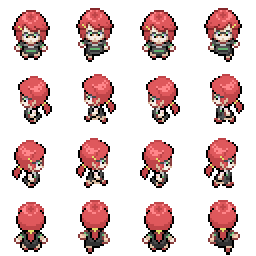
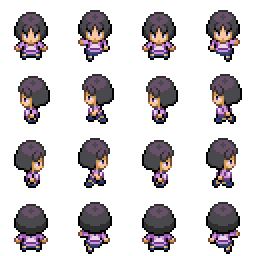
feat(teachers)

diff --git a/src/assetLoader.js b/src/assetLoader.js
@@ -113,6 +113,28 @@ export function loadAssets() {
       }
     });
 
+    k.loadSprite("alonso", "./assets/Alonso.png", {
+      sliceX: 4,
+      sliceY: 4,
+
+      anims: {
+        "alonso-down": 0,
+        "alonso-side": 4,
+        "alonso-up": 12,
+      }
+    });
+
+    k.loadSprite("thays", "./assets/Thays.png", {
+      sliceX: 4,
+      sliceY: 4,
+
+      anims: {
+        "thays-down": 0,
+        "thays-side": 4,
+        "thays-up": 12,
+      }
+    });
+
     k.loadSprite("yelenia", "./assets/Yelenia.png", {
       sliceX: 4,
       sliceY: 4,
@@ -121,6 +143,39 @@ export function loadAssets() {
         "yelenia-down": 0,
         "yelenia-side": 4,
         "yelenia-up": 12,
+      }
+    });
+
+    k.loadSprite("luis", "./assets/Luis.png", {
+      sliceX: 4,
+      sliceY: 4,
+
+      anims: {
+        "luis-down": 0,
+        "luis-side": 4,
+        "luis-up": 12,
+      }
+    });
+
+    k.loadSprite("yumilba", "./assets/Yumilba.png", {
+      sliceX: 4,
+      sliceY: 4,
+
+      anims: {
+        "yumilba-down": 0,
+        "yumilba-side": 4,
+        "yumilba-up": 12,
+      }
+    });
+
+    k.loadSprite("vincenzo", "./assets/Vincenzo.png", {
+      sliceX: 4,
+      sliceY: 4,
+
+      anims: {
+        "vincenzo-down": 0,
+        "vincenzo-side": 4,
+        "vincenzo-up": 12,
       }
     });
     
